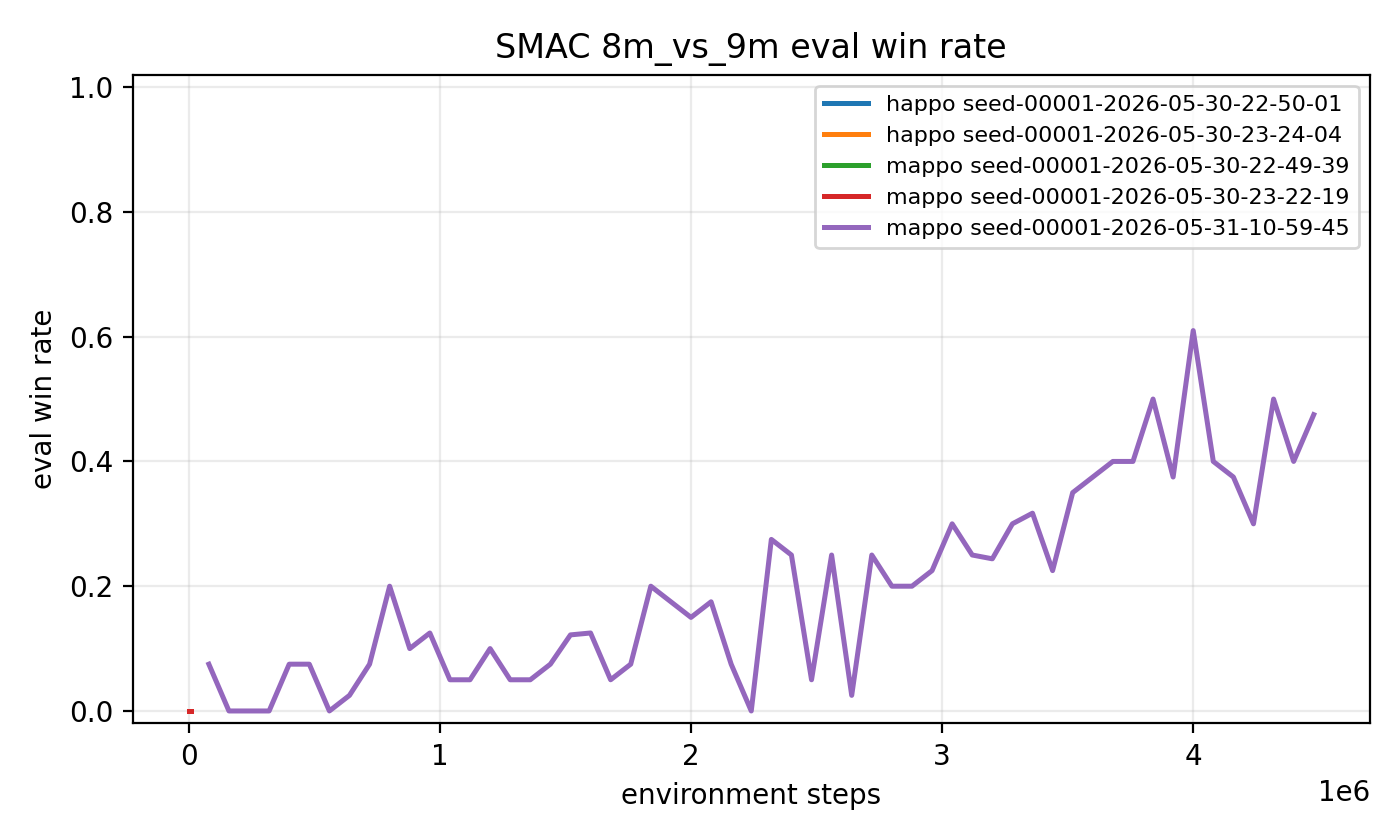
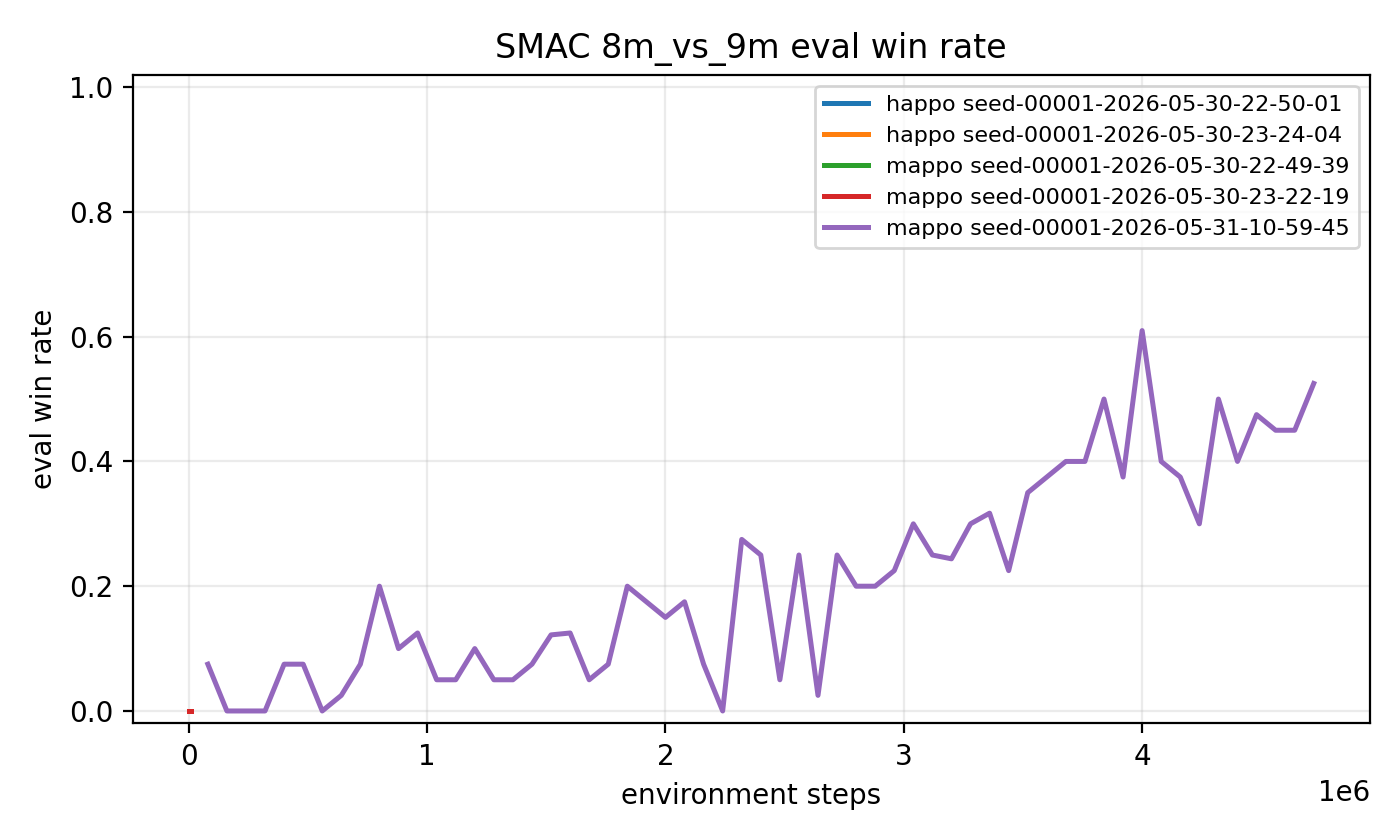
data: update 8m mappo full checkpoint to 4.72m

Changed region(s): [[0.3071, 0.4024, 0.9521, 0.8357], [0.1843, 0.681, 0.3071, 0.8667], [0.645, 0.8667, 0.6757, 0.8976]]

diff --git a/report/report.html b/report/report.html
@@ -98,7 +98,7 @@
 
   <div class="abstract">
     <strong>摘要：</strong>
-    本文基于 HARL 代码库和 SMAC 环境，复现 MAPPO 与 HAPPO 在 <code>3s5z</code> 和 <code>8m_vs_9m</code> 两个地图上的训练流程。当前工作已经完成环境安装、代码定位、四组 smoke test、四组 10000-step pilot、<code>progress.txt</code> 汇总和 win rate 绘图；单 seed 正式训练已完成 <code>3s5z</code> 上 MAPPO 与 HAPPO 的 20000000-step 运行，<code>8m_vs_9m</code> MAPPO full run latest synced checkpoint 为 4480000 steps。由于完整实验矩阵仍在运行，本文现阶段报告重点是复现流程、代码对应关系、<code>3s5z</code> full 结果和阶段性验证结果。
+    本文基于 HARL 代码库和 SMAC 环境，复现 MAPPO 与 HAPPO 在 <code>3s5z</code> 和 <code>8m_vs_9m</code> 两个地图上的训练流程。当前工作已经完成环境安装、代码定位、四组 smoke test、四组 10000-step pilot、<code>progress.txt</code> 汇总和 win rate 绘图；单 seed 正式训练已完成 <code>3s5z</code> 上 MAPPO 与 HAPPO 的 20000000-step 运行，<code>8m_vs_9m</code> MAPPO full run latest synced checkpoint 为 4720000 steps。由于完整实验矩阵仍在运行，本文现阶段报告重点是复现流程、代码对应关系、<code>3s5z</code> full 结果和阶段性验证结果。
   </div>
 
   <div class="columns">
@@ -154,7 +154,7 @@
     </table>
 
     <h2>7. 结果与分析</h2>
-    <p>目前已完成四组 1000 environment steps 的 smoke test，用于验证环境、训练脚本、日志收集和绘图流程。随后又完成了四组 10000-step pilot run，覆盖 MAPPO/HAPPO 与 <code>3s5z</code>/<code>8m_vs_9m</code> 的完整实验矩阵。2026-05-31 已在 tmux 中启动单 seed full tuned config；当前已同步 <code>3s5z</code> MAPPO 与 HAPPO 的完整 20000000-step 结果，<code>8m_vs_9m</code> MAPPO full run latest synced checkpoint 为 4480000 steps。由于 <code>8m_vs_9m</code> full run 尚未完成，这些结果仍不能代表完整实验矩阵的最终结论。</p>
+    <p>目前已完成四组 1000 environment steps 的 smoke test，用于验证环境、训练脚本、日志收集和绘图流程。随后又完成了四组 10000-step pilot run，覆盖 MAPPO/HAPPO 与 <code>3s5z</code>/<code>8m_vs_9m</code> 的完整实验矩阵。2026-05-31 已在 tmux 中启动单 seed full tuned config；当前已同步 <code>3s5z</code> MAPPO 与 HAPPO 的完整 20000000-step 结果，<code>8m_vs_9m</code> MAPPO full run latest synced checkpoint 为 4720000 steps。由于 <code>8m_vs_9m</code> full run 尚未完成，这些结果仍不能代表完整实验矩阵的最终结论。</p>
     <table>
       <caption>Pilot run 最后一次 evaluation 结果</caption>
       <thead>
@@ -175,7 +175,7 @@
       <tbody>
         <tr><td><code>3s5z</code></td><td>MAPPO</td><td>20000000</td><td>19.8764 / 0.975</td><td>1.0</td></tr>
         <tr><td><code>3s5z</code></td><td>HAPPO</td><td>20000000</td><td>19.3452 / 0.875</td><td>1.0</td></tr>
-        <tr><td><code>8m_vs_9m</code></td><td>MAPPO</td><td>4480000</td><td>15.3734 / 0.475</td><td>0.6098</td></tr>
+        <tr><td><code>8m_vs_9m</code></td><td>MAPPO</td><td>4720000</td><td>16.0324 / 0.525</td><td>0.6098</td></tr>
       </tbody>
     </table>
     <figure>
@@ -189,7 +189,7 @@
     <p>正式训练完成后，应使用相同脚本重新生成曲线，并重点比较 MAPPO 与 HAPPO 的收敛速度、最终胜率和训练稳定性。对于当前同步结果，主要结论是训练、评估、日志、汇总和绘图链路已经打通；四组 pilot 均能稳定运行到 10000-step 量级；MAPPO/<code>3s5z</code> 与 HAPPO/<code>3s5z</code> 均已完成 20000000 steps。MAPPO final eval win rate 为 0.975，HAPPO final eval win rate 为 0.875，二者 best win rate 都达到 1.0。由于 <code>8m_vs_9m</code> full run 尚未全部完成，当前结果只支持对 <code>3s5z</code> 的完整比较。</p>
 
     <h2>8. 局限性</h2>
-    <p>当前结果的主要局限是完整矩阵尚未训练结束。SMAC 任务需要大量交互样本才能学习到稳定微操策略，尤其是 <code>8m_vs_9m</code> 这种非对称地图，随机策略和短训练几乎不可能得到胜利。因此 <code>8m_vs_9m</code> 当前只有 smoke/pilot 与 4480000-step early full checkpoint，并不说明算法无效；它只说明该地图的 full run 还未产出可比较的正式结果。正式报告中应继续补充 <code>8m_vs_9m</code> 的完整 full 曲线。</p>
+    <p>当前结果的主要局限是完整矩阵尚未训练结束。SMAC 任务需要大量交互样本才能学习到稳定微操策略，尤其是 <code>8m_vs_9m</code> 这种非对称地图，随机策略和短训练几乎不可能得到胜利。因此 <code>8m_vs_9m</code> 当前只有 smoke/pilot 与 4720000-step early full checkpoint，并不说明算法无效；它只说明该地图的 full run 还未产出可比较的正式结果。正式报告中应继续补充 <code>8m_vs_9m</code> 的完整 full 曲线。</p>
 
     <h2>9. 结论</h2>
     <p>当前阶段已经完成环境配置、代码阅读定位、四组 smoke test、四组 10000-step pilot run、单 seed 正式训练启动、<code>3s5z</code> 上 MAPPO/HAPPO 完整训练结果同步和自动绘图。后续正式训练完成后，应把 <code>8m_vs_9m</code> 的阶段性曲线替换为完整训练曲线，并基于 win rate 的收敛速度、最终胜率和波动情况讨论 MAPPO 与 HAPPO 的差异。</p>

diff --git a/report/main.tex b/report/main.tex
@@ -26,7 +26,7 @@
 ]
 
 \begin{abstract}
-本文基于 HARL 代码库和 SMAC 环境，复现 MAPPO 与 HAPPO 在 \texttt{3s5z} 和 \texttt{8m\_vs\_9m} 两个地图上的训练流程。当前工作已经完成环境安装、代码定位、四组 smoke test、四组 10000-step pilot、\texttt{progress.txt} 汇总和 win rate 绘图；单 seed 正式训练已完成 \texttt{3s5z} 上 MAPPO 与 HAPPO 的 20000000-step 运行，\texttt{8m\_vs\_9m} MAPPO full run latest synced checkpoint 为 4480000 steps。由于完整实验矩阵仍在运行，本文现阶段报告重点是复现流程、代码对应关系、\texttt{3s5z} full 结果和阶段性验证结果。
+本文基于 HARL 代码库和 SMAC 环境，复现 MAPPO 与 HAPPO 在 \texttt{3s5z} 和 \texttt{8m\_vs\_9m} 两个地图上的训练流程。当前工作已经完成环境安装、代码定位、四组 smoke test、四组 10000-step pilot、\texttt{progress.txt} 汇总和 win rate 绘图；单 seed 正式训练已完成 \texttt{3s5z} 上 MAPPO 与 HAPPO 的 20000000-step 运行，\texttt{8m\_vs\_9m} MAPPO full run latest synced checkpoint 为 4720000 steps。由于完整实验矩阵仍在运行，本文现阶段报告重点是复现流程、代码对应关系、\texttt{3s5z} full 结果和阶段性验证结果。
 \end{abstract}
 
 \section{引言}
@@ -100,7 +100,7 @@ HAPPO & \texttt{8m\_vs\_9m} & HARL tuned config \\
 
 \section{结果与分析}
 
-目前已完成四组 1000 environment steps 的 smoke test，用于验证环境、训练脚本、日志收集和绘图流程。随后又完成了四组 10000-step pilot run，覆盖 MAPPO/HAPPO 与 \texttt{3s5z}/\texttt{8m\_vs\_9m} 的完整实验矩阵。2026-05-31 已在 tmux 中启动单 seed full tuned config；当前已同步 \texttt{3s5z} MAPPO 与 HAPPO 的完整 20000000-step 结果，\texttt{8m\_vs\_9m} MAPPO full run latest synced checkpoint 为 4480000 steps。由于 \texttt{8m\_vs\_9m} full run 尚未完成，这些结果仍不能代表完整实验矩阵的最终结论。
+目前已完成四组 1000 environment steps 的 smoke test，用于验证环境、训练脚本、日志收集和绘图流程。随后又完成了四组 10000-step pilot run，覆盖 MAPPO/HAPPO 与 \texttt{3s5z}/\texttt{8m\_vs\_9m} 的完整实验矩阵。2026-05-31 已在 tmux 中启动单 seed full tuned config；当前已同步 \texttt{3s5z} MAPPO 与 HAPPO 的完整 20000000-step 结果，\texttt{8m\_vs\_9m} MAPPO full run latest synced checkpoint 为 4720000 steps。由于 \texttt{8m\_vs\_9m} full run 尚未完成，这些结果仍不能代表完整实验矩阵的最终结论。
 
 \begin{table}[h]
 \centering
@@ -126,7 +126,7 @@ HAPPO & \texttt{8m\_vs\_9m} & HARL tuned config \\
 \midrule
 \texttt{3s5z} & MAPPO & 20000000 & 19.8764 / 0.975 & 1.0 \\
 \texttt{3s5z} & HAPPO & 20000000 & 19.3452 / 0.875 & 1.0 \\
-\texttt{8m\_vs\_9m} & MAPPO & 4480000 & 15.3734 / 0.475 & 0.6098 \\
+\texttt{8m\_vs\_9m} & MAPPO & 4720000 & 16.0324 / 0.525 & 0.6098 \\
 \bottomrule
 \end{tabular}
 \end{table}
@@ -147,7 +147,7 @@ HAPPO & \texttt{8m\_vs\_9m} & HARL tuned config \\
 
 \section{局限性}
 
-当前结果的主要局限是完整矩阵尚未训练结束。SMAC 任务需要大量交互样本才能学习到稳定微操策略，尤其是 \texttt{8m\_vs\_9m} 这种非对称地图，随机策略和短训练几乎不可能得到胜利。因此 \texttt{8m\_vs\_9m} 当前只有 smoke/pilot 与 4480000-step early full checkpoint，并不说明算法无效；它只说明该地图的 full run 还未产出可比较的正式结果。正式报告中应继续补充 \texttt{8m\_vs\_9m} 的完整 full 曲线。
+当前结果的主要局限是完整矩阵尚未训练结束。SMAC 任务需要大量交互样本才能学习到稳定微操策略，尤其是 \texttt{8m\_vs\_9m} 这种非对称地图，随机策略和短训练几乎不可能得到胜利。因此 \texttt{8m\_vs\_9m} 当前只有 smoke/pilot 与 4720000-step early full checkpoint，并不说明算法无效；它只说明该地图的 full run 还未产出可比较的正式结果。正式报告中应继续补充 \texttt{8m\_vs\_9m} 的完整 full 曲线。
 
 \section{结论}
 

diff --git a/logs/artifact_manifest.md b/logs/artifact_manifest.md
@@ -6,7 +6,7 @@ This manifest records deterministic SHA256 hashes for submitted source, report, 
 | --- | ---: | --- |
[7 lines of base64/hex data omitted]
@@ -15,11 +15,11 @@ This manifest records deterministic SHA256 hashes for submitted source, report, 
[14 lines of base64/hex data omitted]
@@ -27,19 +27,19 @@ This manifest records deterministic SHA256 hashes for submitted source, report, 
[25 lines of base64/hex data omitted]
@@ -68,5 +68,5 @@ This manifest records deterministic SHA256 hashes for submitted source, report, 
 ## Summary
 
 - Files: 60
-- Total bytes: 1578646
+- Total bytes: 1580918
 - Excludes generated validation and manifest files to avoid self-referential churn.

diff --git a/logs/experiment_notes.md b/logs/experiment_notes.md
@@ -7,7 +7,7 @@
 | HAPPO | `3s5z` | HARL tuned config | smoke test 与 10000-step pilot 通过，full 已完成 20000000 steps |
 | HAPPO | `8m_vs_9m` | HARL tuned config | smoke test 与 10000-step pilot 通过 |
 | MAPPO | `3s5z` | 基于同地图 HAPPO tuned config 生成 MAPPO 配置 | smoke test 与 10000-step pilot 通过，full 已完成 20000000 steps |
-| MAPPO | `8m_vs_9m` | 基于同地图 HAPPO tuned config 生成 MAPPO 配置 | smoke test 与 10000-step pilot 通过，full latest synced checkpoint 为 4480000 steps |
+| MAPPO | `8m_vs_9m` | 基于同地图 HAPPO tuned config 生成 MAPPO 配置 | smoke test 与 10000-step pilot 通过，full latest synced checkpoint 为 4720000 steps |
 
 ## dry-run 结果
 
@@ -80,9 +80,9 @@ SESSION=hw3_full_20260531_seed1 SEEDS=1 EXP_PREFIX=hw3_full bash scripts/launch_
 阶段性结果：
 
 - tmux 会话 `hw3_full_20260531_seed1` 仍在运行。
-- 当前已同步 `MAPPO` + `3s5z` 的 250 个 full evaluation、`HAPPO` + `3s5z` 的 250 个 full evaluation，以及 `MAPPO` + `8m_vs_9m` 的 56 个 early full evaluation 到 `results/raw/full/`。
-- `MAPPO` + `8m_vs_9m` latest synced checkpoint 为 4480000 environment steps，final eval reward 为 15.3734，final eval win rate 为 0.475；当前最佳 reward 为 16.5362，当前最佳 win rate 为 0.6098。
-- `results/processed/progress_summary.csv` 当前共有 628 行，其中 full 贡献 556 行。
+- 当前已同步 `MAPPO` + `3s5z` 的 250 个 full evaluation、`HAPPO` + `3s5z` 的 250 个 full evaluation，以及 `MAPPO` + `8m_vs_9m` 的 59 个 early full evaluation 到 `results/raw/full/`。
+- `MAPPO` + `8m_vs_9m` latest synced checkpoint 为 4720000 environment steps，final eval reward 为 16.0324，final eval win rate 为 0.525；当前最佳 reward 为 16.5362，当前最佳 win rate 为 0.6098。
+- `results/processed/progress_summary.csv` 当前共有 631 行，其中 full 贡献 559 行。
 - `MAPPO` + `3s5z` 已到达 20000000 environment steps，final eval reward 为 19.8764，final eval win rate 为 0.975；当前最佳 win rate 为 1.0。
 - `HAPPO` + `3s5z` 已到达 20000000 environment steps，final eval reward 为 19.3452，final eval win rate 为 0.875；当前最佳 win rate 为 1.0。
 
@@ -96,10 +96,10 @@ SESSION=hw3_full_20260531_seed1 SEEDS=1 EXP_PREFIX=hw3_full bash scripts/launch_
 | 2026-05-30 | `MAPS=8m_vs_9m ALGOS="mappo happo" EXP_PREFIX=hw3 SEEDS=1 conda run -n harl_hw3 bash scripts/run_smac_experiments.sh pilot` | 1 | `external/HARL/examples/results/smac/8m_vs_9m/...` | 2 组 10000-step pilot 通过 |
 | 2026-05-31 | `SESSION=hw3_full_20260531_seed1 SEEDS=1 EXP_PREFIX=hw3_full bash scripts/launch_training_tmux.sh full` | 1 | `external/HARL/examples/results/smac/3s5z/mappo/hw3_full_full_mappo_3s5z/seed-00001-2026-05-31-00-04-56` | `MAPPO` + `3s5z` 已同步完整 20000000-step 结果 |
 | 2026-05-31 | `SESSION=hw3_full_20260531_seed1 SEEDS=1 EXP_PREFIX=hw3_full bash scripts/launch_training_tmux.sh full` | 1 | `external/HARL/examples/results/smac/3s5z/happo/hw3_full_full_happo_3s5z/seed-00001-2026-05-31-05-20-04` | `HAPPO` + `3s5z` 已同步完整 20000000-step 结果 |
-| 2026-05-31 | `SESSION=hw3_full_20260531_seed1 SEEDS=1 EXP_PREFIX=hw3_full bash scripts/launch_training_tmux.sh full` | 1 | `external/HARL/examples/results/smac/8m_vs_9m/mappo/hw3_full_full_mappo_8m_vs_9m/seed-00001-2026-05-31-10-59-45` | `MAPPO` + `8m_vs_9m` latest synced checkpoint 为 4480000 steps |
+| 2026-05-31 | `SESSION=hw3_full_20260531_seed1 SEEDS=1 EXP_PREFIX=hw3_full bash scripts/launch_training_tmux.sh full` | 1 | `external/HARL/examples/results/smac/8m_vs_9m/mappo/hw3_full_full_mappo_8m_vs_9m/seed-00001-2026-05-31-10-59-45` | `MAPPO` + `8m_vs_9m` latest synced checkpoint 为 4720000 steps |
 
 ## 观察模板
 
 - `3s5z`：smoke/pilot/full 曲线已生成，`MAPPO` 与 `HAPPO` 都已完成 20000000 steps。
-- `8m_vs_9m`：smoke/pilot/full early checkpoint 曲线已生成，`MAPPO` full latest synced checkpoint 为 4480000 steps。
+- `8m_vs_9m`：smoke/pilot/full early checkpoint 曲线已生成，`MAPPO` full latest synced checkpoint 为 4720000 steps。
 - MAPPO vs HAPPO：正式训练后比较 sample efficiency、稳定性和最终性能。

diff --git a/PROGRESS.md b/PROGRESS.md
@@ -8,7 +8,7 @@
 - 作业文档：已解析 `hw3.pptx`，确认任务包括 MAPPO/HAPPO 阅读、HARL+SMAC 环境配置、`3s5z` 和 `8m_vs_9m` 复现实验、win rate 绘图、研究性报告。
 - GitHub 状态：本地 Git 可用；`origin` 已切换为 `[email redacted]:PPYYQQ/MARL-hw3.git`，SSH 认证通过，`main` 已同步到 `origin/main`。
 - GitHub CLI：当前未安装 `gh`；已通过 SSH remote 完成推送，不再依赖 HTTPS 交互式凭据。
-- 正式训练：已启动单 seed tmux 会话 `hw3_full_20260531_seed1`，按 `mappo/happo` × `3s5z`/`8m_vs_9m` 顺序运行 full tuned config；当前已同步 `MAPPO` + `3s5z` 和 `HAPPO` + `3s5z` 完整 20000000-step 结果；`MAPPO` + `8m_vs_9m` full run latest synced checkpoint 为 4480000 steps。
+- 正式训练：已启动单 seed tmux 会话 `hw3_full_20260531_seed1`，按 `mappo/happo` × `3s5z`/`8m_vs_9m` 顺序运行 full tuned config；当前已同步 `MAPPO` + `3s5z` 和 `HAPPO` + `3s5z` 完整 20000000-step 结果；`MAPPO` + `8m_vs_9m` full run latest synced checkpoint 为 4720000 steps。
 - 已知限制：完整训练依赖 StarCraft II、SMAC maps、GPU/CPU 资源和长时间运行环境。
 
 ## 提交记录
@@ -111,6 +111,7 @@
 | 2026-05-31 | `784ed77` | 同步 `MAPPO` + `8m_vs_9m` early full checkpoint 到 3840000 steps，更新报告、曲线、PDF 和校验清单 | `git push`、`validate_submission.py` |
 | 2026-05-31 | `8e967d0` | 同步 `MAPPO` + `8m_vs_9m` early full checkpoint 到 4000000 steps，更新报告、曲线、PDF 和校验清单 | `git push`、`validate_submission.py` |
 | 2026-05-31 | `f5be034` | 同步 `MAPPO` + `8m_vs_9m` early full checkpoint 到 4240000 steps，更新报告、曲线、PDF 和校验清单 | `git push`、`validate_submission.py` |
+| 2026-05-31 | `b2c5157` | 同步 `MAPPO` + `8m_vs_9m` early full checkpoint 到 4480000 steps，更新报告、曲线、PDF 和校验清单 | `git push`、`validate_submission.py` |
 
 ## 任务清单
 
@@ -172,7 +173,7 @@
 - [x] 同步 `HAPPO` + `3s5z` 阶段性 19520000-step checkpoint。
 - [x] 同步 `HAPPO` + `3s5z` 阶段性 19680000-step checkpoint。
 - [x] 同步 `HAPPO` + `3s5z` 完整 20000000-step 结果。
-- [x] 同步 `MAPPO` + `8m_vs_9m` 4480000-step 早期 full checkpoint。
+- [x] 同步 `MAPPO` + `8m_vs_9m` 4720000-step 早期 full checkpoint。
 - [ ] 完成正式训练或记录无法完成的资源原因。
 
 ### 5. 数据与报告

diff --git a/SUBMISSION.md b/SUBMISSION.md
@@ -10,7 +10,7 @@
 - `configs/smac/`：MAPPO/HAPPO × `3s5z`/`8m_vs_9m` 的配置快照。
 - `results/raw/smoke/`：4 组 smoke test 的原始 `progress.txt`。
 - `results/raw/pilot/`：4 组 10000-step pilot 的原始 `progress.txt`。
-- `results/raw/full/`：正式训练同步进来的 `progress.txt`；当前包含 `MAPPO` + `3s5z` 与 `HAPPO` + `3s5z` 的完整 20000000-step 结果，以及 `MAPPO` + `8m_vs_9m` 的 latest synced 4480000-step 早期 checkpoint。
+- `results/raw/full/`：正式训练同步进来的 `progress.txt`；当前包含 `MAPPO` + `3s5z` 与 `HAPPO` + `3s5z` 的完整 20000000-step 结果，以及 `MAPPO` + `8m_vs_9m` 的 latest synced 4720000-step 早期 checkpoint。
 - `results/processed/progress_summary.csv`、`results/processed/progress_summary.md`：smoke test、pilot 与 full checkpoint 的汇总结果。
 - `figures/win_rate_3s5z.png`、`figures/win_rate_8m_vs_9m.png`：smoke/pilot 与 full 曲线。
 - `logs/`：作业摘要、安装记录、代码阅读笔记、实验笔记。
@@ -23,7 +23,7 @@
 - 学号、姓名、邮箱：需要填入 `report/main.tex`。
 - GitHub push：`origin` 已切换为 `[email redacted]:PPYYQQ/MARL-hw3.git`；SSH 认证已通过，`main` 已同步到 `origin/main`。
 - LaTeX 编译器：当前系统没有 `xelatex` 或 `pdflatex`；PDF 已通过 Chrome HTML 导出流程生成。
-- 正式训练：当前完成 1000-step smoke test 和 4 组 10000-step pilot；单 seed full 训练已在 `hw3_full_20260531_seed1` 中运行，`MAPPO` + `3s5z` 与 `HAPPO` + `3s5z` 均已同步完整 20000000-step 结果，`MAPPO` + `8m_vs_9m` latest synced checkpoint 为 4480000 steps。
+- 正式训练：当前完成 1000-step smoke test 和 4 组 10000-step pilot；单 seed full 训练已在 `hw3_full_20260531_seed1` 中运行，`MAPPO` + `3s5z` 与 `HAPPO` + `3s5z` 均已同步完整 20000000-step 结果，`MAPPO` + `8m_vs_9m` latest synced checkpoint 为 4720000 steps。
 
 ## GitHub 同步
 

diff --git a/logs/submission_validation.md b/logs/submission_validation.md
@@ -21,8 +21,8 @@
 | `logs` | OK | directory present |
 | `results/raw/smoke` | OK | directory present |
 | `results/raw/pilot` | OK | directory present |
-| `report/main.pdf` | OK | 925542 bytes; 3 pages |
-| `results/processed/progress_summary.csv` | OK | 628 data rows |
+| `report/main.pdf` | OK | 926826 bytes; 3 pages |
+| `results/processed/progress_summary.csv` | OK | 631 data rows |
 | `results/raw/smoke` | OK | 4 progress.txt files; expected at least 4 |
 | `results/raw/pilot` | OK | 4 progress.txt files; expected at least 4 |
 | `results/raw/full` | WARN | 3 progress.txt files; full training not complete |

diff --git a/logs/full_training_status.md b/logs/full_training_status.md
@@ -28,7 +28,7 @@ env MAPS="3s5z 8m_vs_9m" ALGOS="mappo happo" SEEDS=1 EXP_PREFIX=hw3_full CUDA=tr
 - First evaluation: `MAPPO` + `3s5z` reached 80000 environment steps with eval reward 10.1708 and eval win rate 0.0; this row was synced into `results/raw/full/`.
 - Latest synced checkpoint: `MAPPO` + `3s5z` completed 20000000 environment steps with final eval reward 19.8764 and final eval win rate 0.975; best synced win rate is 1.0.
 - Latest synced checkpoint: `HAPPO` + `3s5z` completed 20000000 environment steps with final eval reward 19.3452 and final eval win rate 0.875; best synced win rate is 1.0.
-- Latest early checkpoint: `MAPPO` + `8m_vs_9m` reached 4480000 environment steps with final eval reward 15.3734 and final eval win rate 0.475; best synced reward is 16.5362 and best synced win rate is 0.6098.
+- Latest early checkpoint: `MAPPO` + `8m_vs_9m` reached 4720000 environment steps with final eval reward 16.0324 and final eval win rate 0.525; best synced reward is 16.5362 and best synced win rate is 0.6098.
 
 ## Monitoring
 

diff --git a/results/processed/progress_summary.md b/results/processed/progress_summary.md
@@ -12,7 +12,7 @@ Source: `results/processed/progress_summary.csv`
 | smoke | `3s5z` | mappo | 6 | 960 | 6.4834 | 0.0000 | 6.9669 | 0.0000 |
 | pilot | `8m_vs_9m` | happo | 12 | 9600 | 5.0072 | 0.0000 | 7.5108 | 0.0000 |
 | smoke | `8m_vs_9m` | happo | 6 | 960 | 2.2446 | 0.0000 | 2.2446 | 0.0000 |
-| full | `8m_vs_9m` | mappo | 56 | 4480000 | 15.3734 | 0.4750 | 16.5362 | 0.6098 |
+| full | `8m_vs_9m` | mappo | 59 | 4720000 | 16.0324 | 0.5250 | 16.5362 | 0.6098 |
 | pilot | `8m_vs_9m` | mappo | 12 | 9600 | 7.5108 | 0.0000 | 9.9856 | 0.0000 |
 | smoke | `8m_vs_9m` | mappo | 6 | 960 | 3.7986 | 0.0000 | 6.3022 | 0.0000 |
 